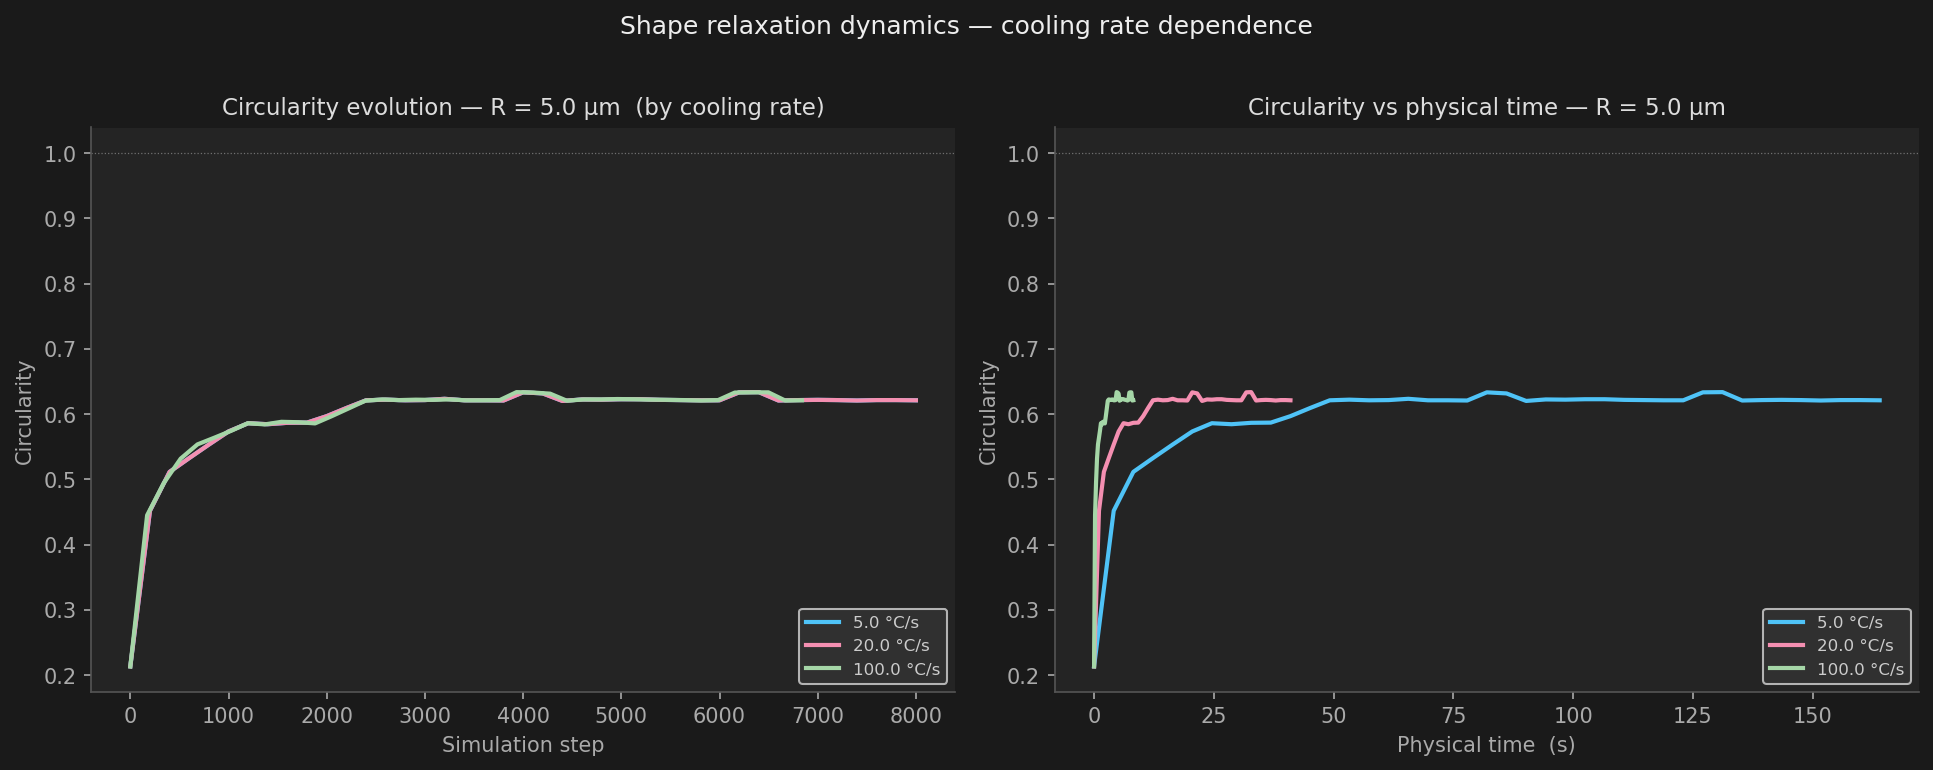
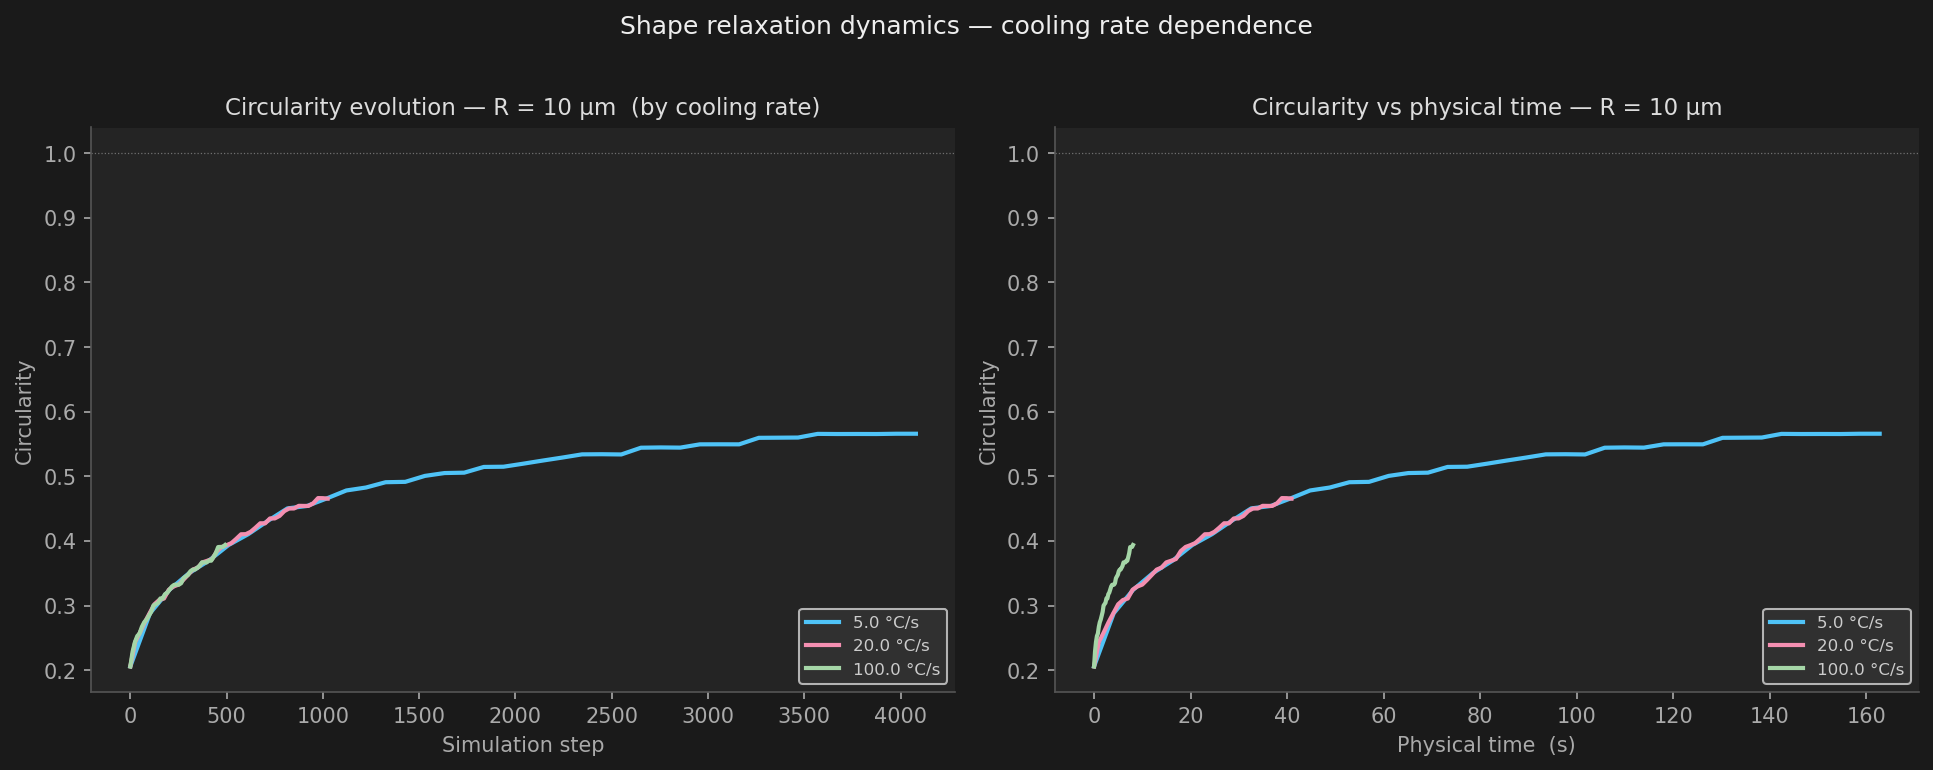
Mobility tuning

diff --git a/Alloy_Design/cr2o3_inclusion_sim/main.py b/Alloy_Design/cr2o3_inclusion_sim/main.py
@@ -44,14 +44,14 @@ CONFIG = {
  
     # Mobility elevated at 2100 degC (~70x higher than at 1500 degC via Arrhenius,
     # Q ~ 250 kJ/mol). Base value ~3e-13 at 1500 degC -> ~1e-12 at 2100 degC.
-    "mobility":   1e-12,
+    "mobility":   3e-14,
  
     "sigma":      1.5,
  
     "sweep_radii_um":      [2.0, 3.5, 5.0, 7.0, 10.0],
     "sweep_cooling_rates": [5.0, 20.0, 100.0],
  
-    "max_steps":  8000,
+    "max_steps":  200000,
     "min_steps":  500,
     "n_snapshots": 40,
  
@@ -224,7 +224,7 @@ def plot_circularity_vs_radius(sweep_data, cfg, out):
 def plot_circ_vs_step_by_cr(sweep_data, cfg, fixed_cr, out):
     cooling_rates = cfg["sweep_cooling_rates"]
     radii_um      = cfg["sweep_radii_um"]
-    mid_r         = radii_um[len(radii_um) // 2]
+    mid_r         = 10 # or radii_um[len(radii_um) // 2]
  
     fig, axes = plt.subplots(1, 2, figsize=(13, 5))
     fig.patch.set_facecolor(DARK_BG)

diff --git a/Alloy_Design/cr2o3_inclusion_sim/src/cooling.py b/Alloy_Design/cr2o3_inclusion_sim/src/cooling.py
@@ -30,7 +30,7 @@ M_2100 ~ 1e-12 m^3 J^-1 s^-1.
 import numpy as np
 
 DEFAULT_SIGMA        = 1.5
-DEFAULT_MOBILITY     = 1e-12
+DEFAULT_MOBILITY     = 3e-14
 DEFAULT_DELTA_T      = 820.0
 DEFAULT_COOLING_RATE = 20.0
 
